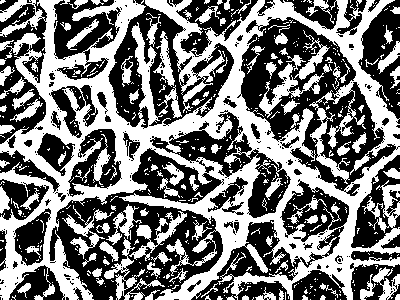
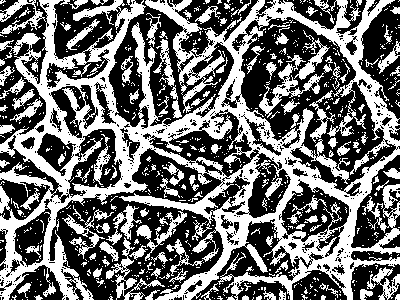
parameter adjustment

diff --git a/config.py b/config.py
@@ -12,8 +12,8 @@ CLAHE_CLIP_LIMIT = 2.0      # contrast enhancement strength
 CLAHE_TILE_SIZE  = (8, 8)   # local region size for CLAHE
 
 # ── Stage 2: Binarization ────────────────────────────────
-ADAPTIVE_BLOCK_SIZE = 21    # local window size (must be odd)
-ADAPTIVE_C          = 4     # constant subtracted from mean
+ADAPTIVE_BLOCK_SIZE = 11    # local window size (must be odd)
+ADAPTIVE_C          = 3     # constant subtracted from mean
 
 # ── Stage 3: Morphology ──────────────────────────────────
 MORPH_KERNEL_SIZE   = (3, 3)
